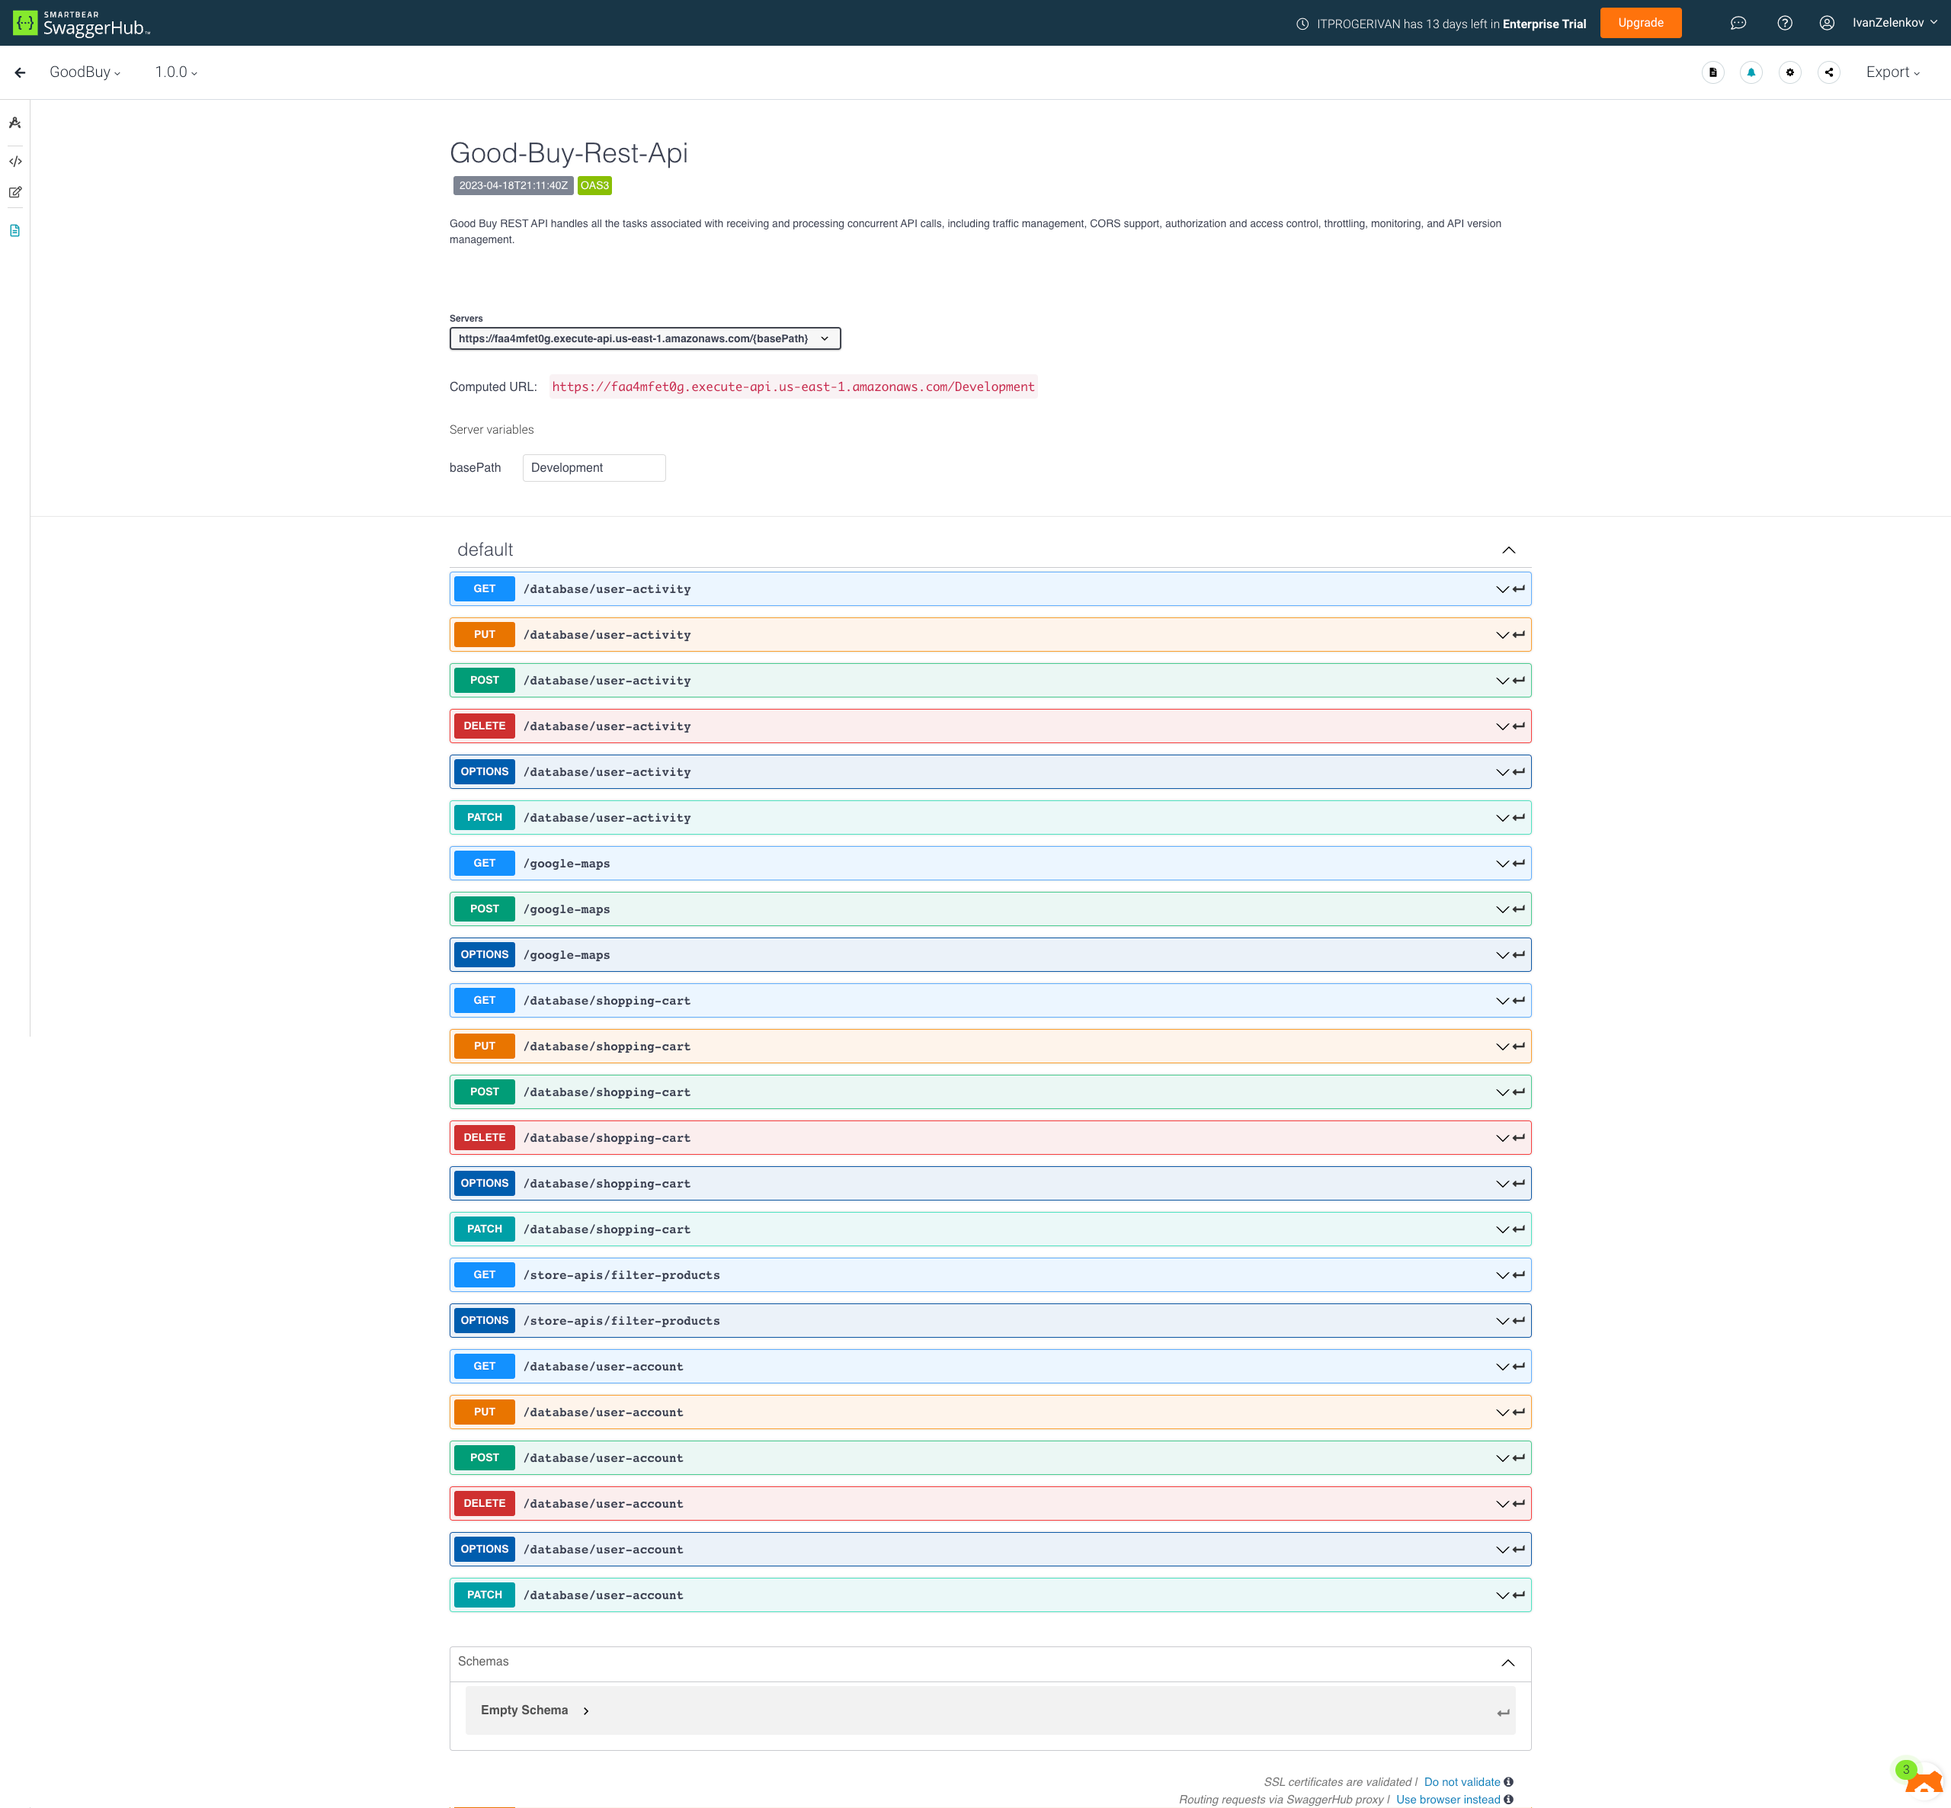
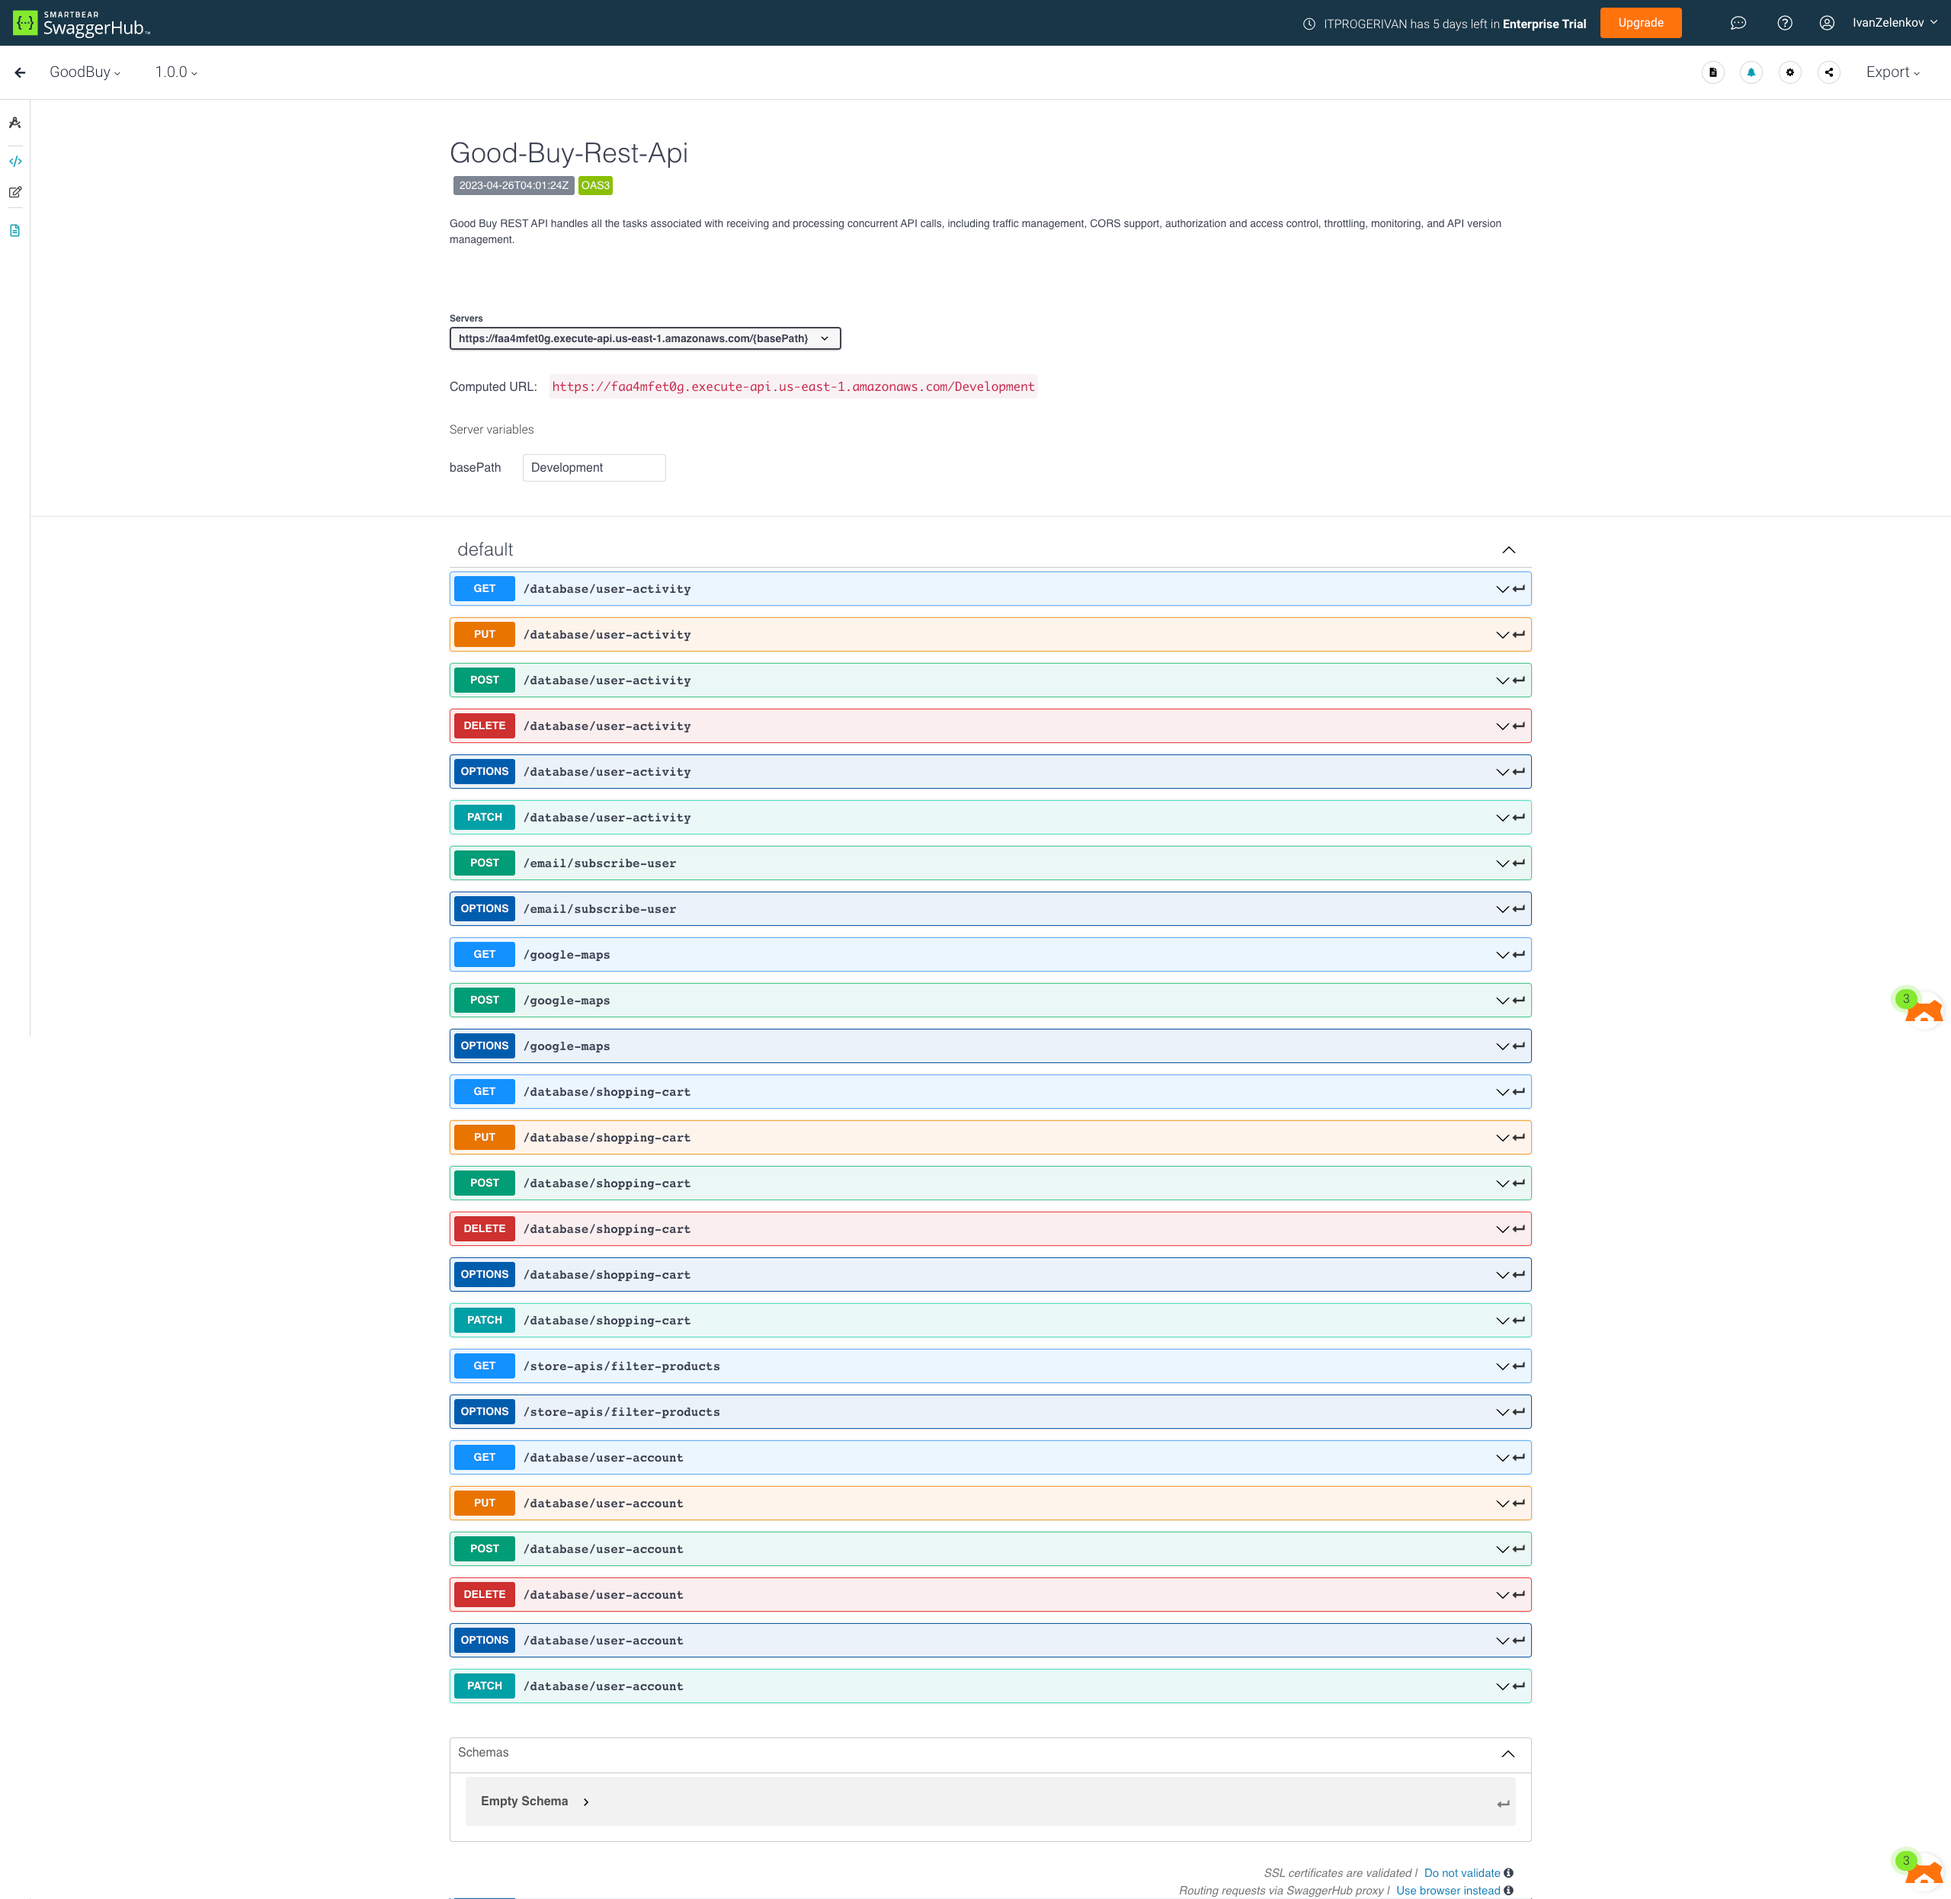
Updated solution architecture, Jenkins pipeline, and Open API UI screenshots that follow previous changes.

diff --git a/README.md b/README.md
@@ -7,11 +7,10 @@ GoodBuy will not only help shoppers compare prices across brands, but also help 
 whenever they need to shop!
 
 ### Solution Architecture
-
-![Good-Buy-Solution-Architecture](https://user-images.githubusercontent.com/64171964/232904351-7cfc4a2a-63b8-4880-80e2-6bbe69163337.png)
+![Good-Buy-Solution-Architecture](https://user-images.githubusercontent.com/64171964/234468744-374d1759-76d4-4db3-a288-142aadd32b1e.png)
 
 ### Jenkins Pipeline
-![Good-Buy-Jenkins-Pipeline](https://user-images.githubusercontent.com/64171964/232631820-b06a9fad-c29b-4eca-b9b4-a85a74807ac5.png)
+![Screenshot 2023-04-25 at 23 06 39](https://user-images.githubusercontent.com/64171964/234467480-d926705c-077e-4cbe-ae94-889d16dc37c1.png)
 
 ### OpenAPI UI
-![Good-Buy-Rest-Api-Development-oas30](https://user-images.githubusercontent.com/64171964/232906524-fcee677d-3334-4278-b629-1005657c60c7.png)
+![Good-Buy-Rest-Api-Development-oas30](https://user-images.githubusercontent.com/64171964/234467213-8325b5e5-045d-4b13-bd2e-047e3c8beba3.png)
